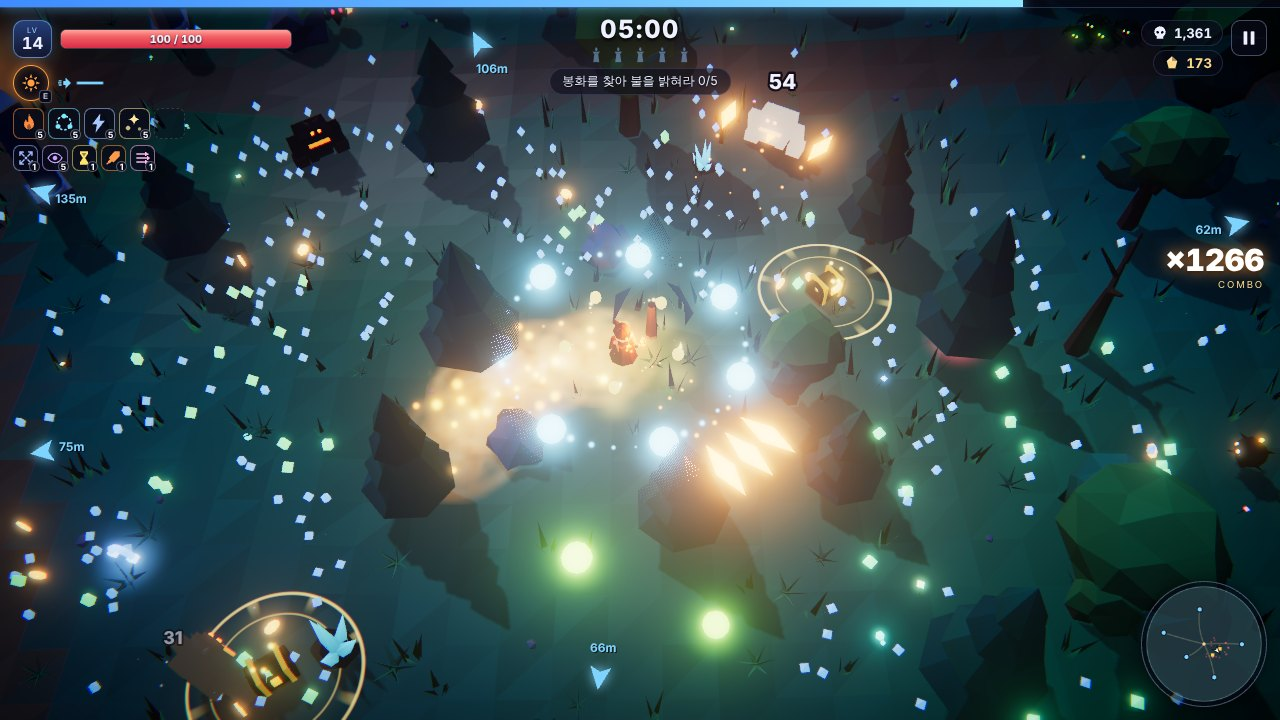
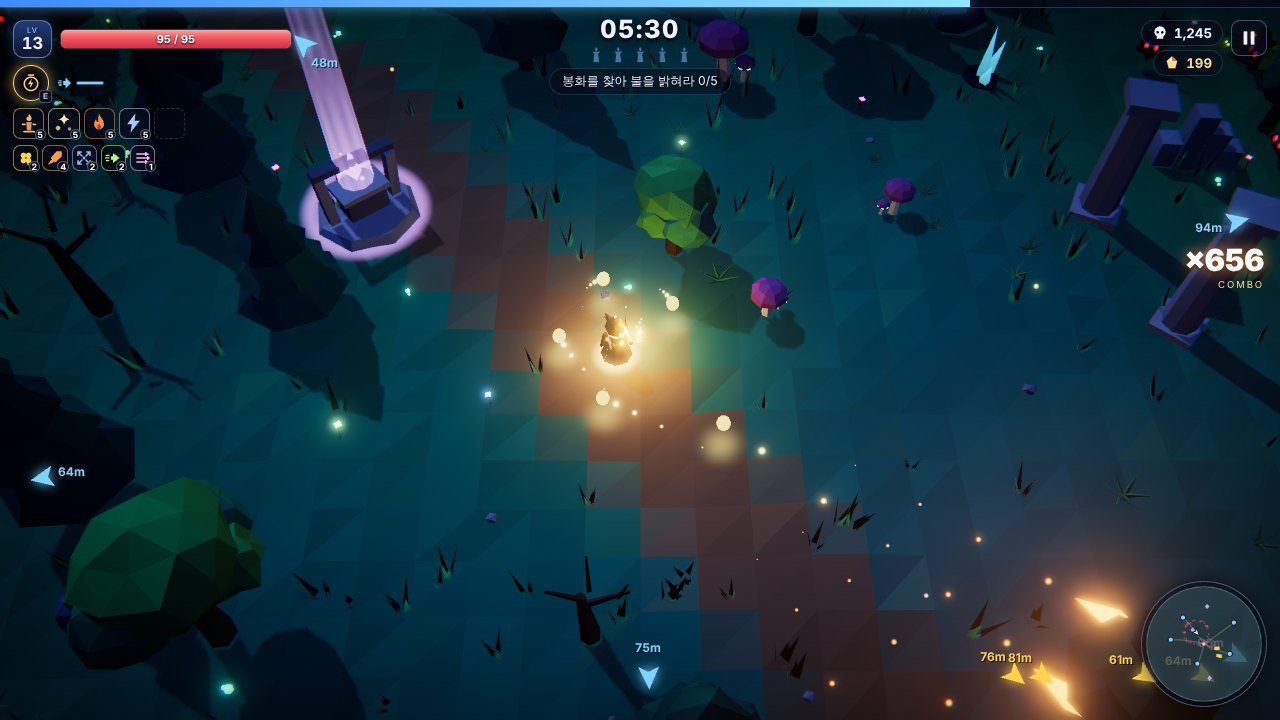
README: refresh the combat screenshot (shrine, sprites, ability HUD)
Claude-Session: https://claude.ai/code/session_013upxBxSu1bpKDZ3sL1zY16

diff --git a/docs/HANDOFF.md b/docs/HANDOFF.md
@@ -151,7 +151,7 @@ PWA 오프라인 캐시, 지역 전용 적 2종(서리 거인 `rime`, 재벌레 
    제단 거래 추가, 8번째 등불지기
 2. 밸런스 재측정은 `curve.sh` 방식(4지역 × 30판, 사망 시각 분포 + 후반 최저 체력)으로. 현재 기준: 승률 63%, 승리 중앙값 10.3분, 후반 최저 체력 56%
 3. 실제 플레이 피드백이 오면 최우선 반영
-4. README 스크린샷 갱신(새 HUD 능력 아이콘·제단·토템이 보이는 장면)
+4. README 스크린샷: combat.jpg는 제단·정령이 보이게 갱신함(2026-11-21). 레벨업 화면에 시너지 힌트가 보이는 장면은 아직
 
 ## 7. 알려진 문제 / 주의
 
